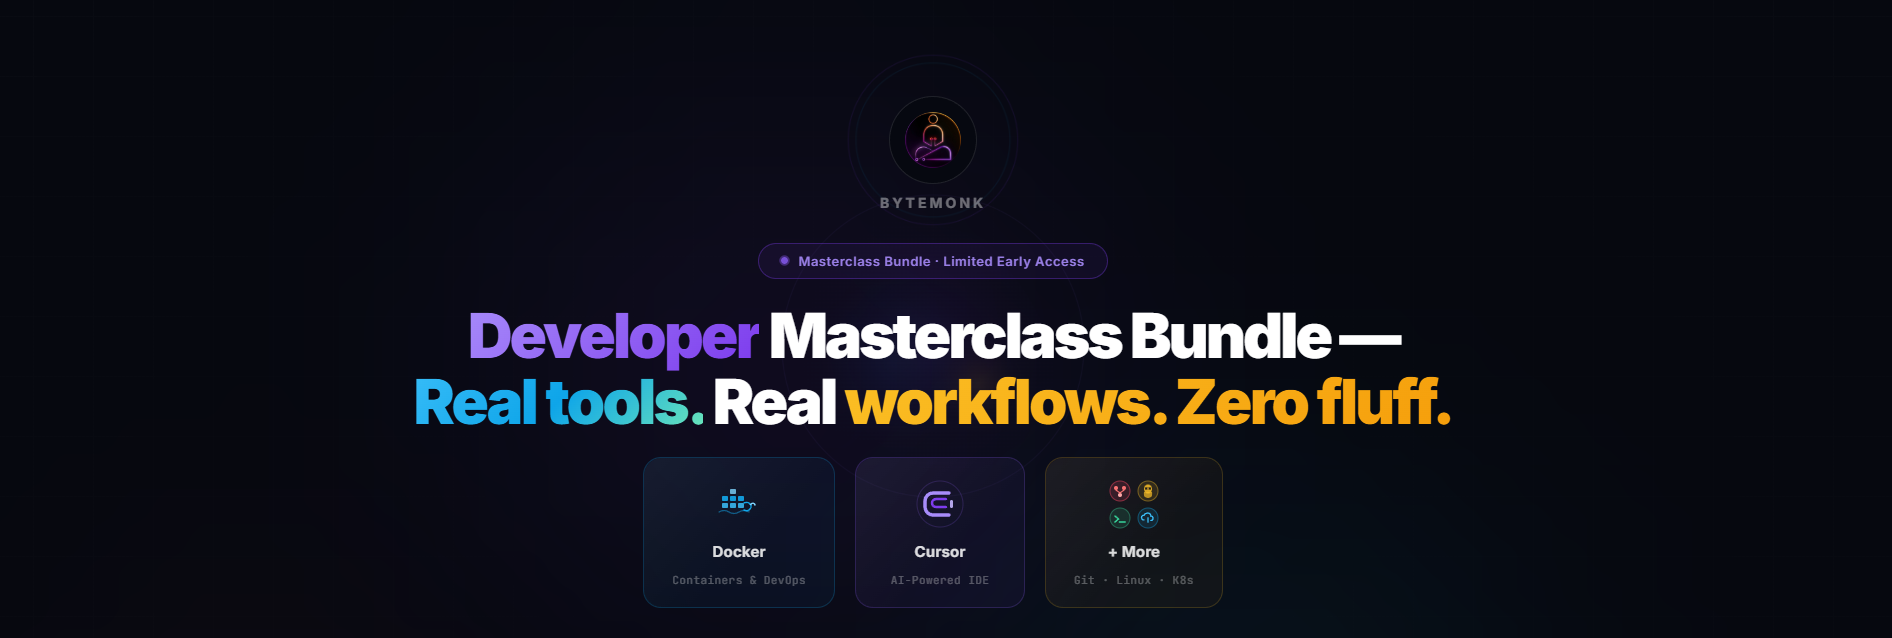
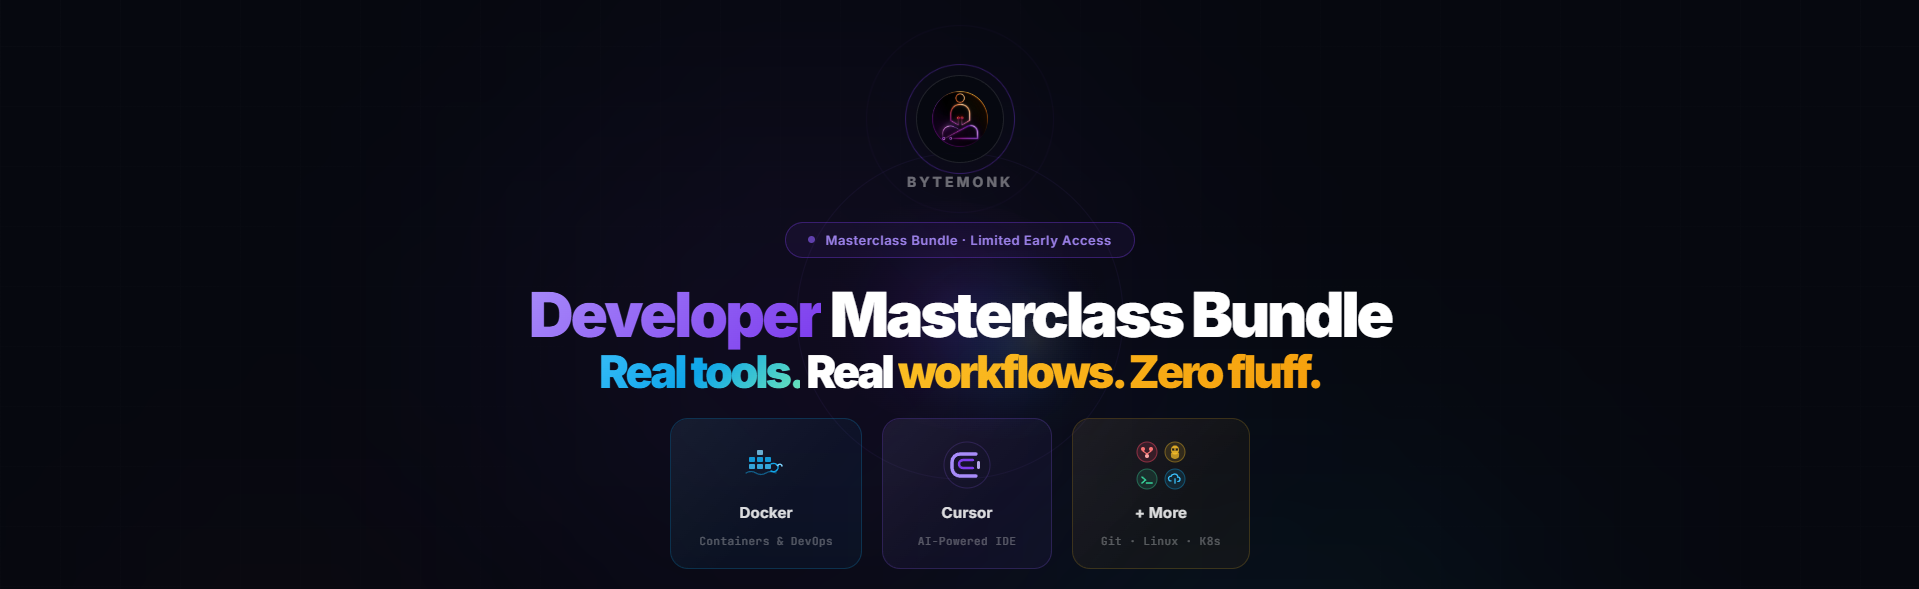
course pictures updated

diff --git a/frontend/src/neon.css b/frontend/src/neon.css
@@ -31,7 +31,7 @@ body {
 
 body {
   margin: 0;
-  font-family: 'Space Grotesk', system-ui, -apple-system, Segoe UI, Roboto, sans-serif;
+  font-family: var(--sans);
   background:
     radial-gradient(900px circle at 15% 10%, rgba(176, 38, 255, 0.32), transparent 55%),
     radial-gradient(740px circle at 85% 12%, rgba(0, 245, 255, 0.2), transparent 54%),
@@ -146,7 +146,7 @@ html {
 }
 
 .neon-brand-title {
-  font-family: 'Orbitron', system-ui, sans-serif;
+  font-family: var(--sans);
   font-weight: 700;
   letter-spacing: 0.4px;
   font-size: 15px;
@@ -159,7 +159,7 @@ html {
 }
 
 .neon-badge {
-  font-family: 'Orbitron', system-ui, sans-serif;
+  font-family: var(--sans);
   font-size: 12px;
   letter-spacing: 0.3px;
   padding: 8px 12px;
@@ -259,7 +259,7 @@ html {
 .auth-title h1 {
   position: relative;
   margin: 0;
-  font-family: 'Orbitron', system-ui, sans-serif;
+  font-family: var(--sans);
   letter-spacing: 0.6px;
   font-size: 28px;
 }
@@ -331,7 +331,7 @@ html {
   cursor: pointer;
   border-radius: 16px;
   padding: 12px 14px;
-  font-family: 'Orbitron', system-ui, sans-serif;
+  font-family: var(--sans);
   letter-spacing: 0.4px;
   color: rgba(8, 5, 18, 0.98);
   background: linear-gradient(90deg, var(--neonB), var(--neonA));
@@ -422,7 +422,7 @@ html {
 
 .dash-title {
   margin: 0 0 4px;
-  font-family: 'Orbitron', system-ui, sans-serif;
+  font-family: var(--sans);
   font-size: 30px;
   letter-spacing: 0.6px;
 }
@@ -453,7 +453,7 @@ html {
 }
 
 .dash-stat-value {
-  font-family: 'Orbitron', system-ui, sans-serif;
+  font-family: var(--sans);
   font-size: 20px;
   letter-spacing: 0.4px;
 }
@@ -515,7 +515,7 @@ html {
 
 .course-pill {
   align-self: flex-start;
-  font-family: 'Orbitron', system-ui, sans-serif;
+  font-family: var(--sans);
   font-size: 10px;
   letter-spacing: 0.35px;
   padding: 6px 9px;
@@ -526,7 +526,7 @@ html {
 
 .course-title {
   margin: 0;
-  font-family: 'Orbitron', system-ui, sans-serif;
+  font-family: var(--sans);
   font-size: 16px;
   letter-spacing: 0.4px;
 }
@@ -573,7 +573,7 @@ html {
 
 .course-meta-value {
   margin-top: 2px;
-  font-family: 'Orbitron', system-ui, sans-serif;
+  font-family: var(--sans);
   letter-spacing: 0.25px;
 }
 
@@ -619,7 +619,7 @@ html {
 }
 
 .course-price-value {
-  font-family: 'Orbitron', system-ui, sans-serif;
+  font-family: var(--sans);
   letter-spacing: 0.3px;
   font-size: 18px;
 }
@@ -699,7 +699,7 @@ html {
 
 .chatbot-title {
   margin: 0;
-  font-family: 'Orbitron', system-ui, sans-serif;
+  font-family: var(--sans);
   font-size: 13px;
 }
 
@@ -778,7 +778,7 @@ html {
   border: 0;
   border-radius: 10px;
   padding: 9px 12px;
-  font-family: 'Orbitron', system-ui, sans-serif;
+  font-family: var(--sans);
   font-size: 11px;
   cursor: pointer;
   background: linear-gradient(90deg, var(--neonB), var(--neonA));
@@ -813,7 +813,7 @@ html {
 
 .legal-title {
   margin: 0 0 6px;
-  font-family: 'Orbitron', system-ui, sans-serif;
+  font-family: var(--sans);
   font-size: 28px;
 }
 

diff --git a/frontend/src/index.css b/frontend/src/index.css
@@ -9,17 +9,24 @@
   --accent-border: rgba(170, 59, 255, 0.5);
   --social-bg: rgba(244, 243, 236, 0.5);
   --shadow:
-    rgba(0, 0, 0, 0.1) 0 10px 15px -3px, rgba(0, 0, 0, 0.05) 0 4px 6px -2px;
+    rgba(0, 0, 0, 0.1) 0 10px 15px -3px,
+    rgba(0, 0, 0, 0.05) 0 4px 6px -2px;
 
-  --sans: system-ui, 'Segoe UI', Roboto, sans-serif;
-  --heading: system-ui, 'Segoe UI', Roboto, sans-serif;
+  /* ✅ Font system updated */
+  --sans: "Poppins", system-ui, 'Segoe UI', Roboto, sans-serif;
+  --heading: "Poppins", system-ui, 'Segoe UI', Roboto, sans-serif;
   --mono: ui-monospace, Consolas, monospace;
 
-  font: 18px/145% var(--sans);
+  /* ✅ Safer font application (no shorthand) */
+  font-size: 18px;
+  line-height: 145%;
+  font-family: var(--sans);
+
   letter-spacing: 0.18px;
   color-scheme: light dark;
   color: var(--text);
   background: var(--bg);
+
   font-synthesis: none;
   text-rendering: optimizeLegibility;
   -webkit-font-smoothing: antialiased;
@@ -42,7 +49,8 @@
     --accent-border: rgba(192, 132, 252, 0.5);
     --social-bg: rgba(47, 48, 58, 0.5);
     --shadow:
-      rgba(0, 0, 0, 0.4) 0 10px 15px -3px, rgba(0, 0, 0, 0.25) 0 4px 6px -2px;
+      rgba(0, 0, 0, 0.4) 0 10px 15px -3px,
+      rgba(0, 0, 0, 0.25) 0 4px 6px -2px;
   }
 
   #social .button-icon {
@@ -77,20 +85,24 @@ h1 {
   font-size: 56px;
   letter-spacing: -1.68px;
   margin: 32px 0;
+
   @media (max-width: 1024px) {
     font-size: 36px;
     margin: 20px 0;
   }
 }
+
 h2 {
   font-size: 24px;
   line-height: 118%;
   letter-spacing: -0.24px;
   margin: 0 0 8px;
+
   @media (max-width: 1024px) {
     font-size: 20px;
   }
 }
+
 p {
   margin: 0;
 }

diff --git a/frontend/index.html b/frontend/index.html
@@ -5,6 +5,9 @@
     <link rel="icon" type="image/svg+xml" href="/bytemonk.png" />
     <meta name="viewport" content="width=device-width, initial-scale=1.0" />
     <title>ByteMonk Store</title>
+    <link rel="preconnect" href="https://fonts.googleapis.com">
+    <link rel="preconnect" href="https://fonts.gstatic.com" crossorigin>
+    <link href="https://fonts.googleapis.com/css2?family=Bebas+Neue&family=Funnel+Display:wght@300..800&family=Inter:ital,opsz,wght@0,14..32,100..900;1,14..32,100..900&family=JetBrains+Mono:ital,wght@0,100..800;1,100..800&family=Jost:ital,wght@0,100..900;1,100..900&family=Montserrat:ital,wght@0,100..900;1,100..900&family=Playfair+Display:ital,wght@0,400..900;1,400..900&family=Poppins:ital,wght@0,100;0,200;0,300;0,400;0,500;0,600;0,700;0,800;0,900;1,100;1,200;1,300;1,400;1,500;1,600;1,700;1,800;1,900&family=Prata&family=Space+Grotesk:wght@300..700&display=swap" rel="stylesheet">
   </head>
   <body>
     <div id="root"></div>
